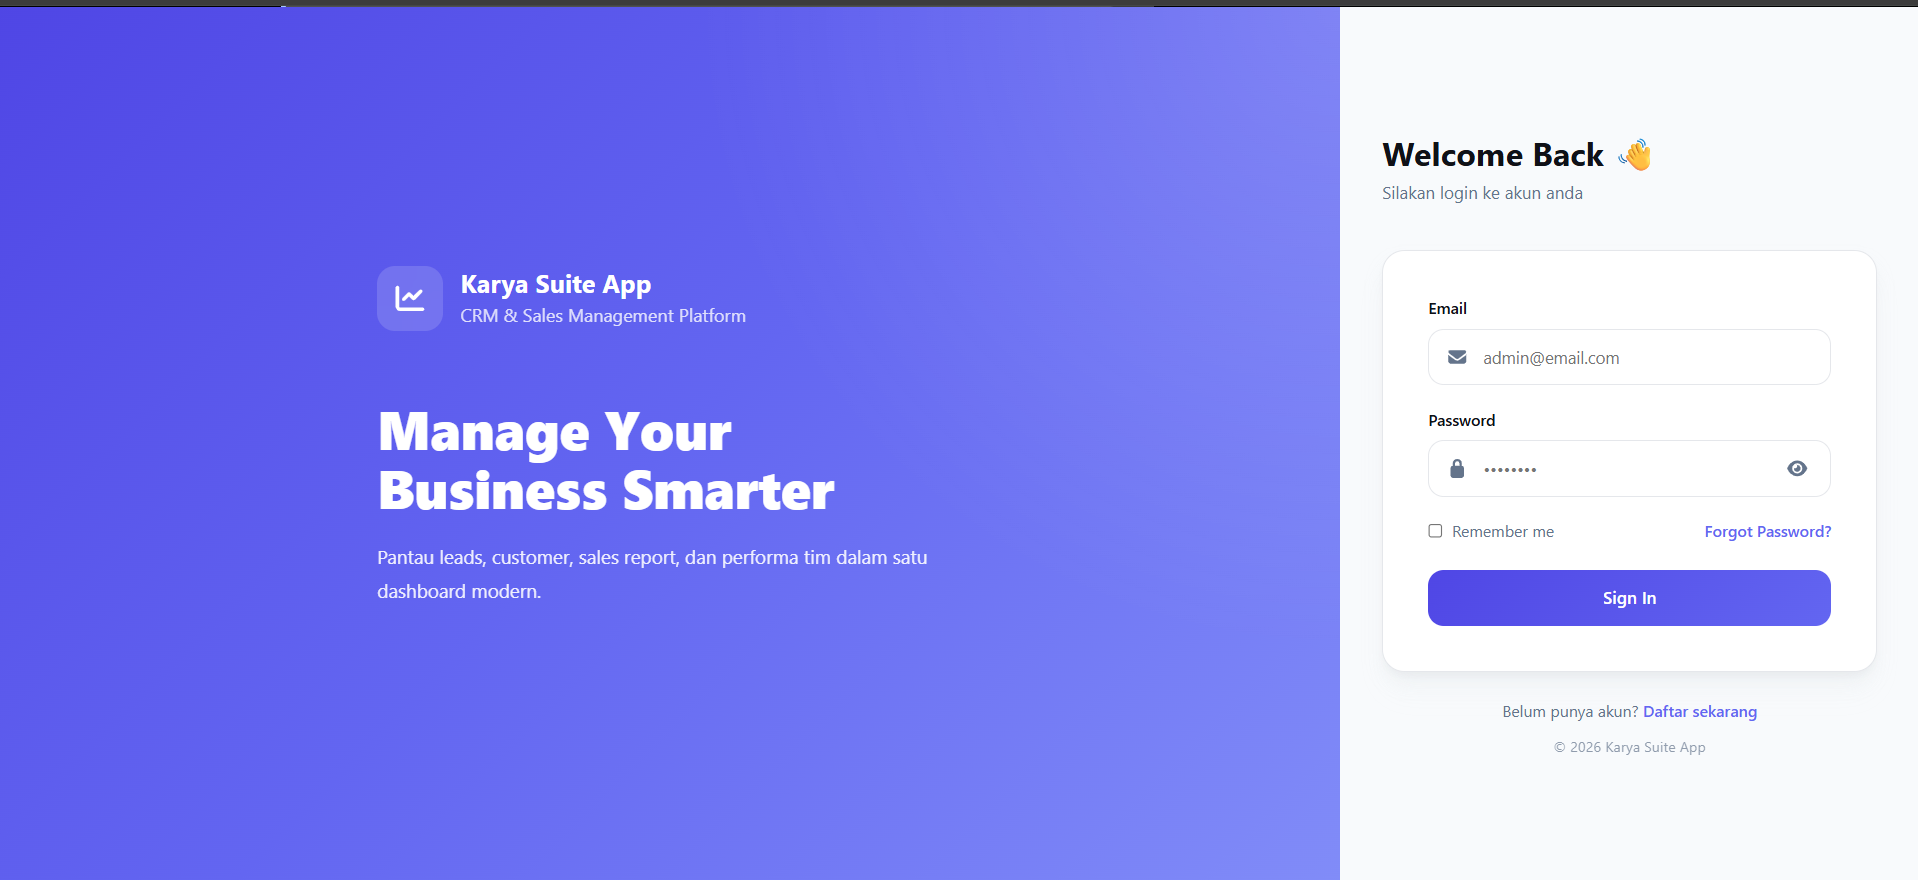
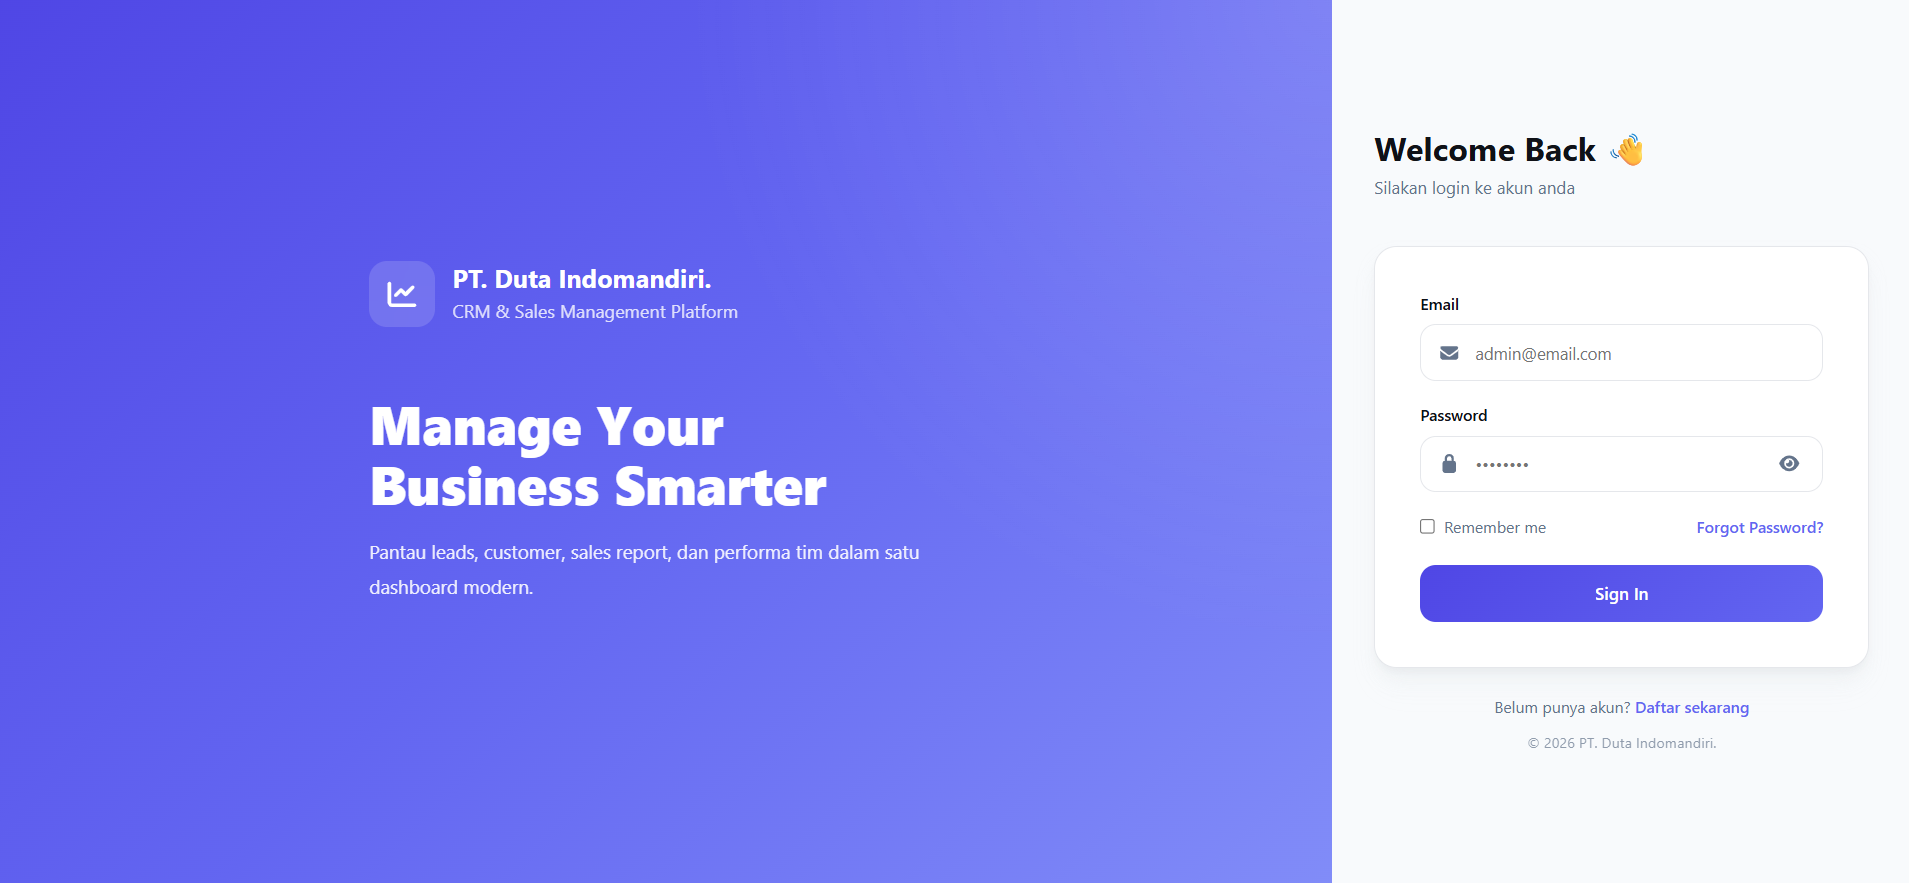
modifed

diff --git a/README.md b/README.md
@@ -185,22 +185,55 @@ src/
 Create `.env` file:
 
 ```env
-VITE_API_URL=http://localhost:8000/api
+VITE_API_URL=http://localhost:8000/api/
 ```
 
 ---
 
 # 📸 Screenshots
 
+## Home Page
+![Login](./public/screenshot/home.png)
+
+## Maps tracking Page
+![Maps tracking Page](./public/screenshot/realtimetracking.png)
+
+## Dashboard For Company Public  Page
+![Dashboard Public](./public/screenshot/dashboardpublic.png)
+
+
+## Monitoring Page
+![Monitoring](./public/screenshot/monitoring.png)
+
+
+## Monitoring Page
+![activity feed](./public/screenshot/activityfeed.png)
+
 ## Login Page
+![Login](./public/screenshot/login.png)
 
 
-## CRM Dashboard
+## Register Page
+![Register](./public/screenshot/register.png)
+
+
+## Forgot PW Page
+![Forgot PW Page](./public/screenshot/forgotpw.png)
+
+
+## IT Page Account
+![IT Page Account](./public/screenshot/dashboardIT.png)
+
+## Sales Page Account
+![Sales Page Account](./public/screenshot/salespage.png)
+
+## manager Page Account
+![manager Page Account](./public/screenshot/managerpage.png)
 
 ## User Profile
+![Profile](./public/screenshot/profile.png)
 
-## Data Table
-
+## and many other features
 ---
 
 # 📌 Roadmap